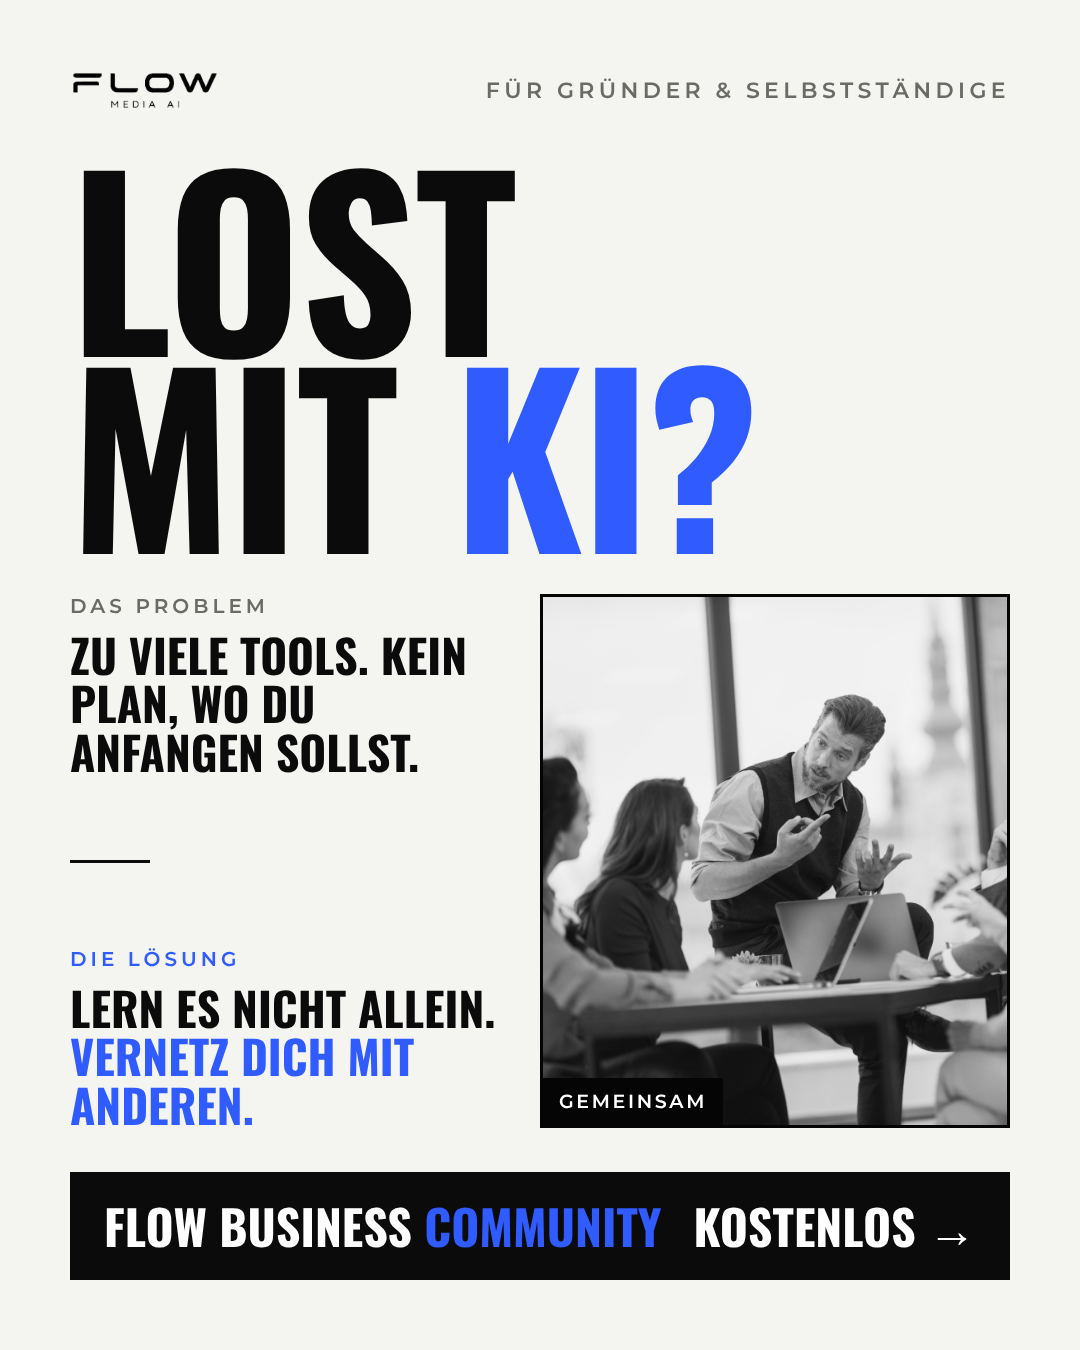
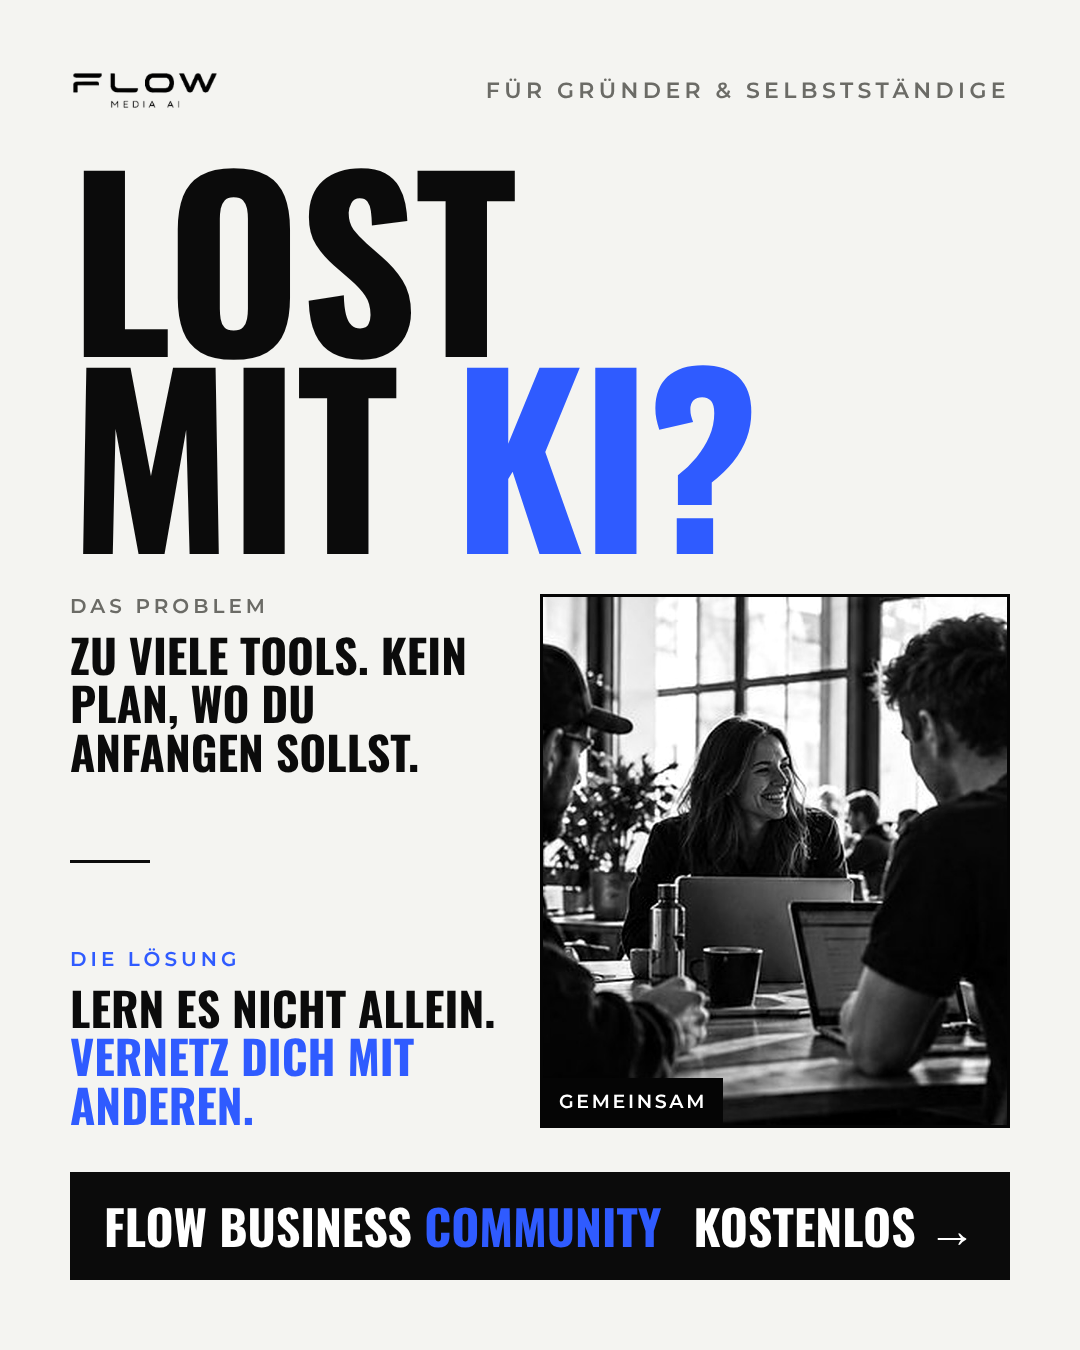
Community-Post: Laptop-Runde aus dem Community-Flyer als Bild
Claude-Session: https://claude.ai/code/session_013fteYFceKiG7Uk7Z2ie8Jy

Changed region(s): [[0.4889, 0.4356, 0.9472, 0.84]]

diff --git a/marketing/community/ad/post.html b/marketing/community/ad/post.html
@@ -12,7 +12,7 @@ h1{font:700 230px/.86 Oswald;text-transform:uppercase;letter-spacing:-.01em}h1 e
 .k{font:600 20px Montserrat;letter-spacing:.2em;text-transform:uppercase;color:var(--mute);margin-bottom:12px}.k.b{color:var(--blue)}
 .t{font:700 46px/1.05 Oswald;text-transform:uppercase}.t em{font-style:normal;color:var(--blue)}
 .line{height:3px;background:var(--ink);width:80px}
-.maik{flex:none;width:470px;background:url(../img/runde.jpg) 25% center/cover;filter:grayscale(1) contrast(1.05);border:3px solid var(--ink);position:relative}
+.maik{flex:none;width:470px;background:url(../img/laptop_runde.jpg) 55% center/cover;filter:grayscale(1) contrast(1.05);border:3px solid var(--ink);position:relative}
 .maik span{position:absolute;left:0;bottom:0;background:var(--ink);color:#fff;font:600 19px Montserrat;letter-spacing:.14em;text-transform:uppercase;padding:12px 16px}
 .cta{background:var(--ink);color:#fff;font:700 48px/1 Oswald;text-transform:uppercase;padding:30px 34px;display:flex;justify-content:space-between}.cta em{font-style:normal;color:var(--blue)}
 </style></head><body><div class="p">
